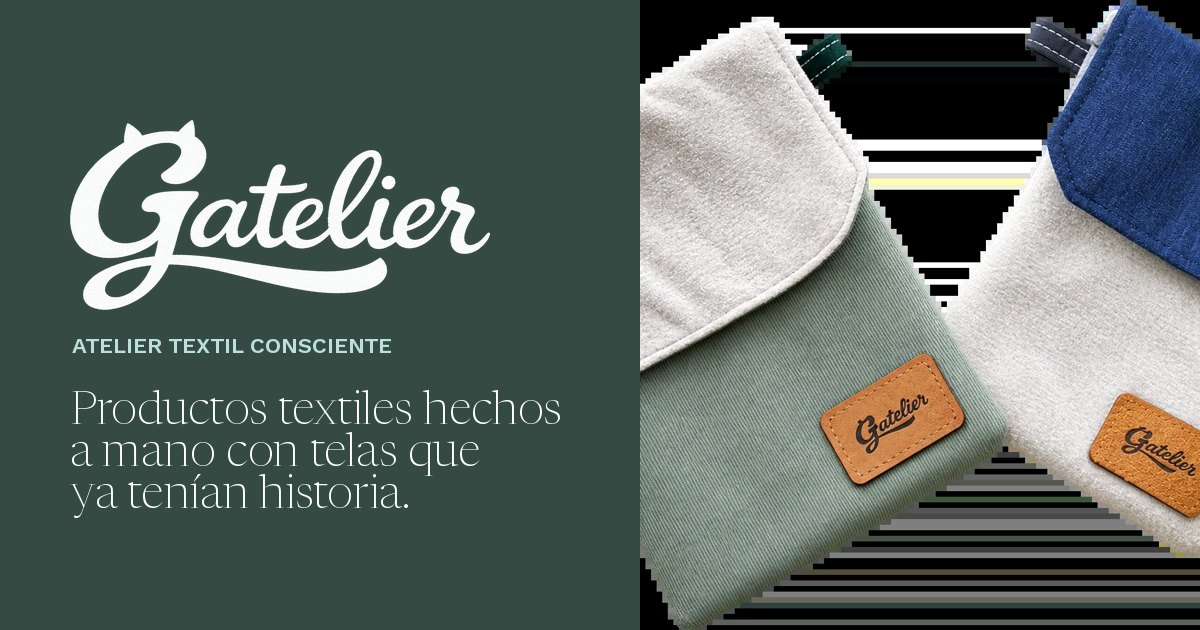
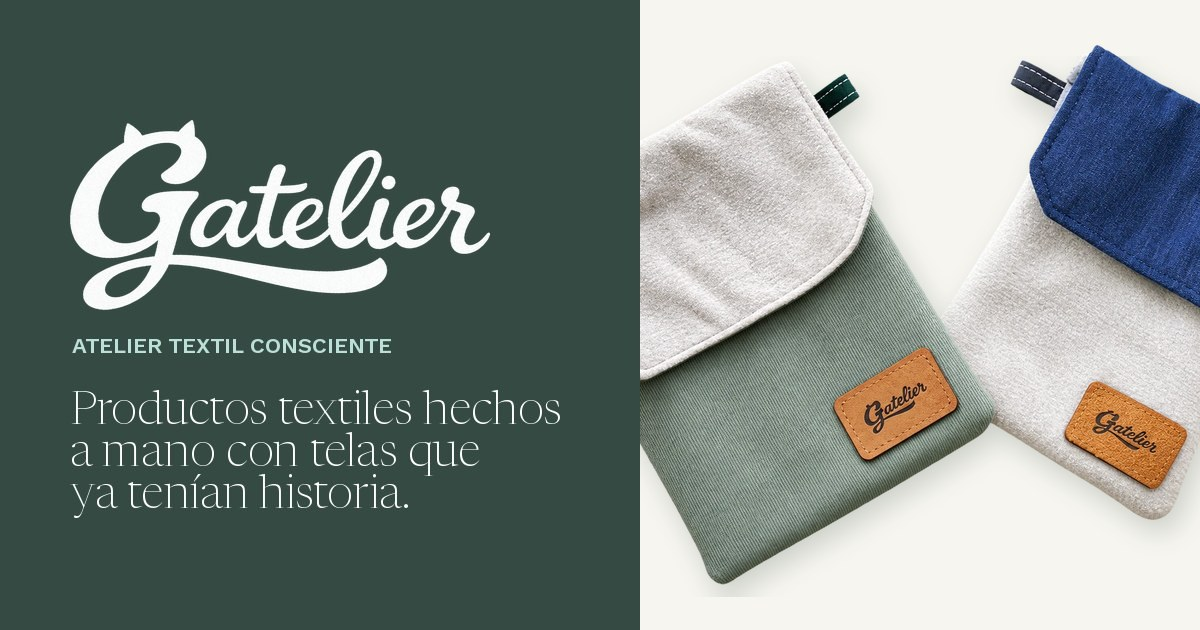
Imagen para compartir sin líneas: foto sobre fondo sólido
La foto recortada tenía colores ocultos en las zonas transparentes que
aparecían como líneas al aplanarla. Ahora se compone sobre el color papel.
La URL lleva ?v=2 para que WhatsApp y otras apps no usen la versión guardada.

Claude-Session: https://claude.ai/code/session_01UTFjnRfwxgxUd6XFAy6NGv

diff --git a/frontend/index.html b/frontend/index.html
@@ -9,7 +9,7 @@
   <meta property="og:site_name" content="Gatelier">
   <meta property="og:title" content="Gatelier · Atelier textil consciente">
   <meta property="og:description" content="Productos textiles hechos a mano con telas recuperadas. Cada pieza es única: mírala por fuera y por dentro y pídela por WhatsApp.">
-  <meta property="og:image" content="https://gatelier.online/assets/og-gatelier.jpg">
+  <meta property="og:image" content="https://gatelier.online/assets/og-gatelier.jpg?v=2">
   <meta property="og:image:width" content="1200">
   <meta property="og:image:height" content="630">
   <meta property="og:image:alt" content="Logo de Gatelier junto a dos productos textiles hechos a mano">
